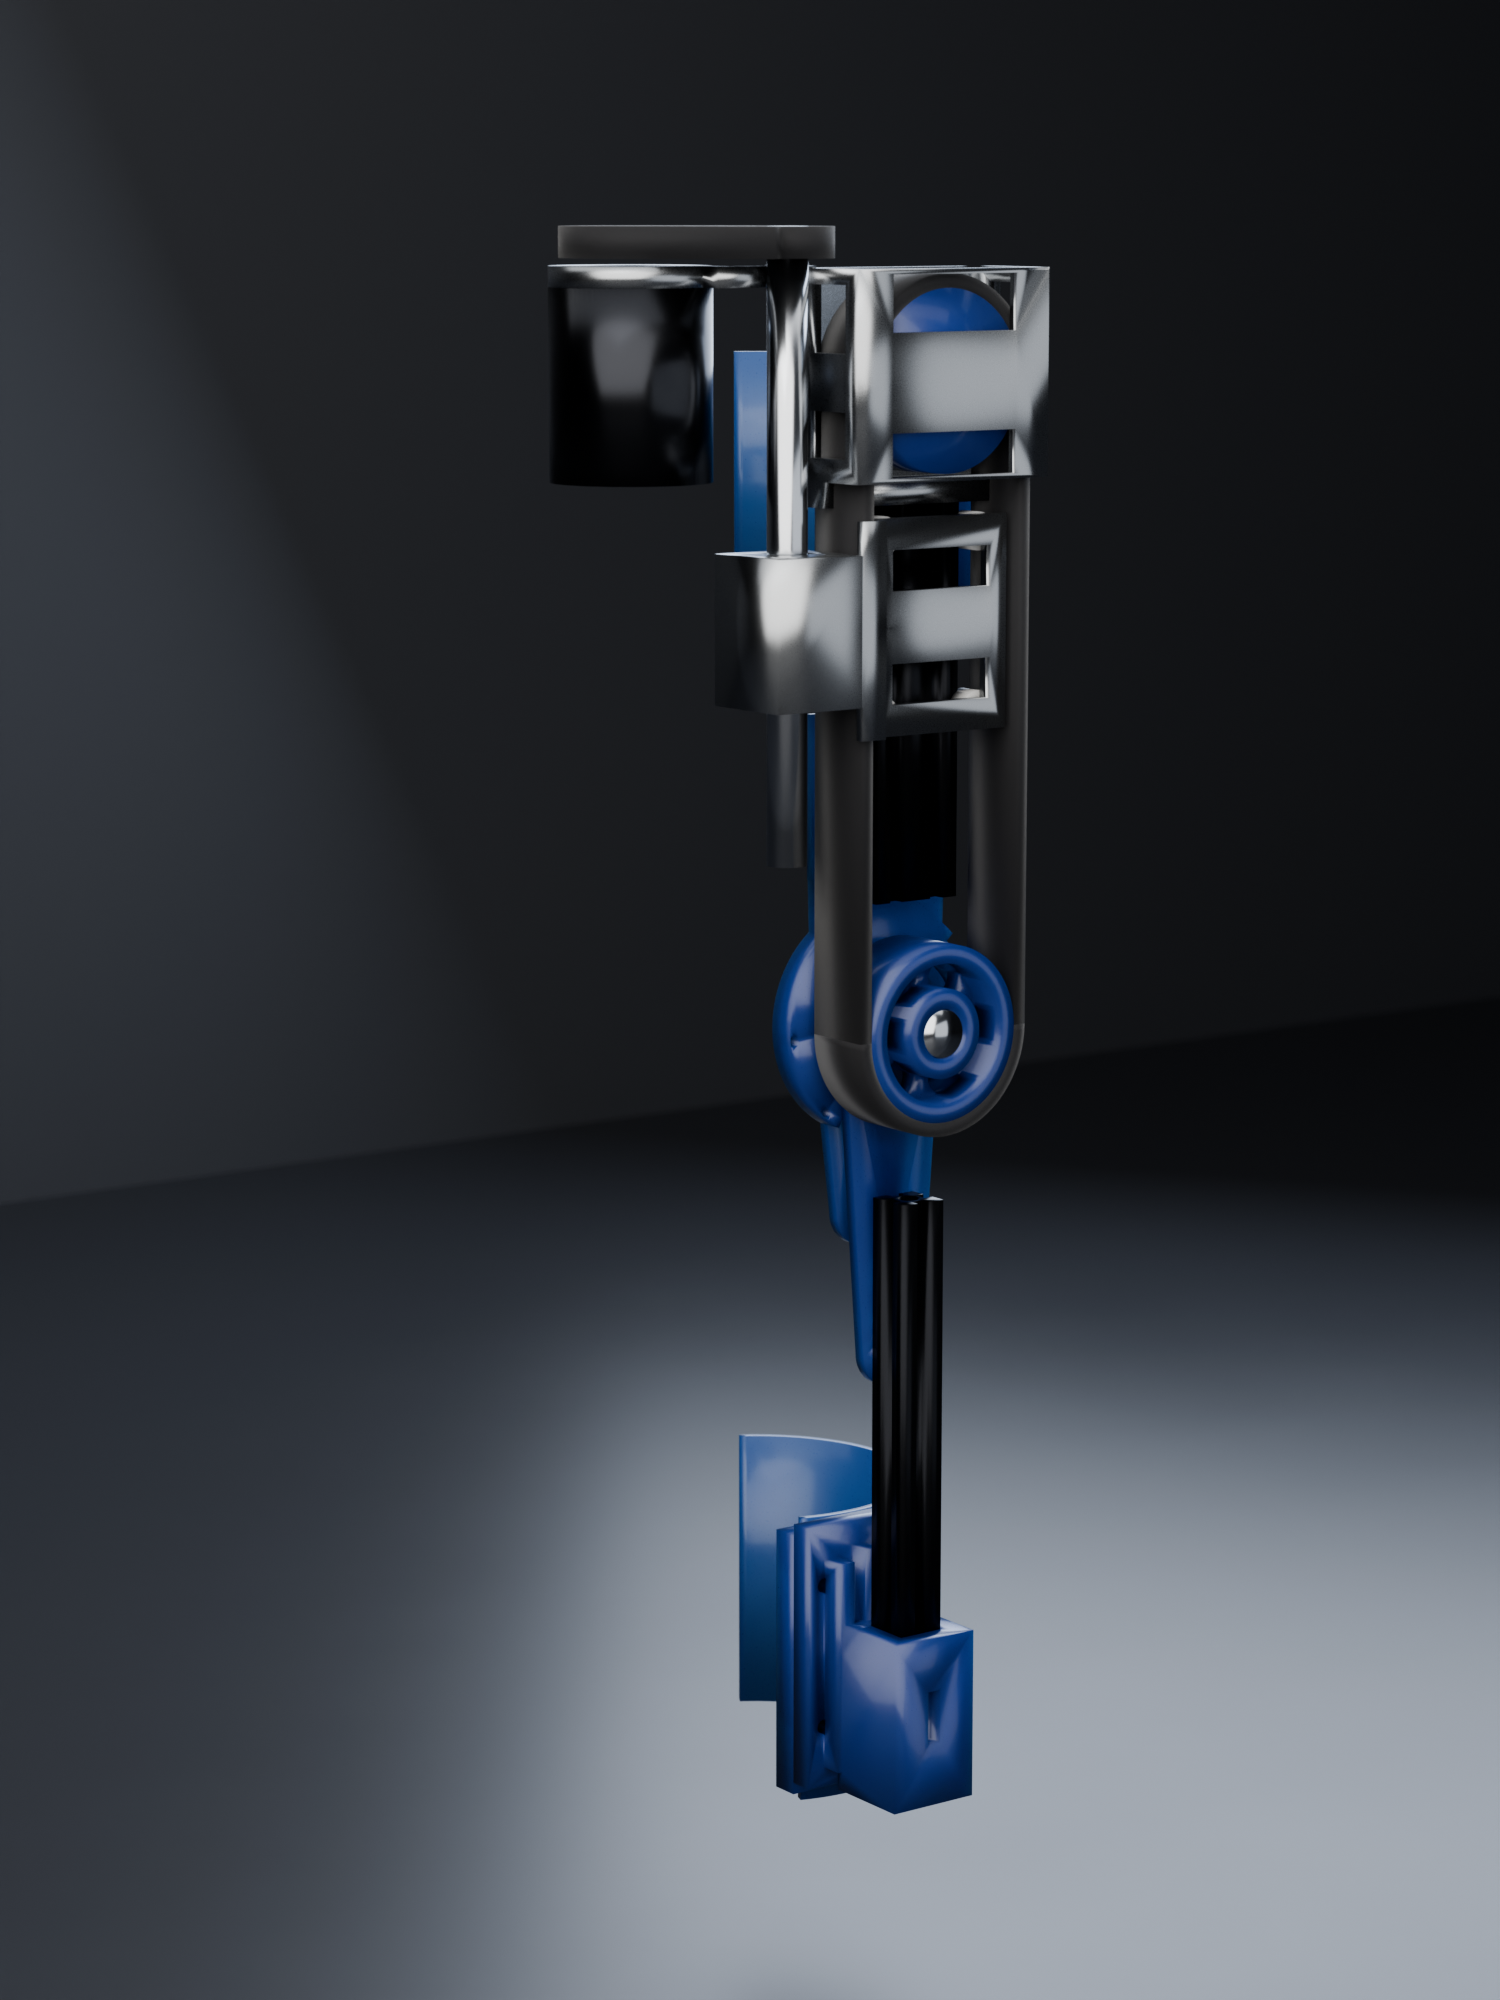
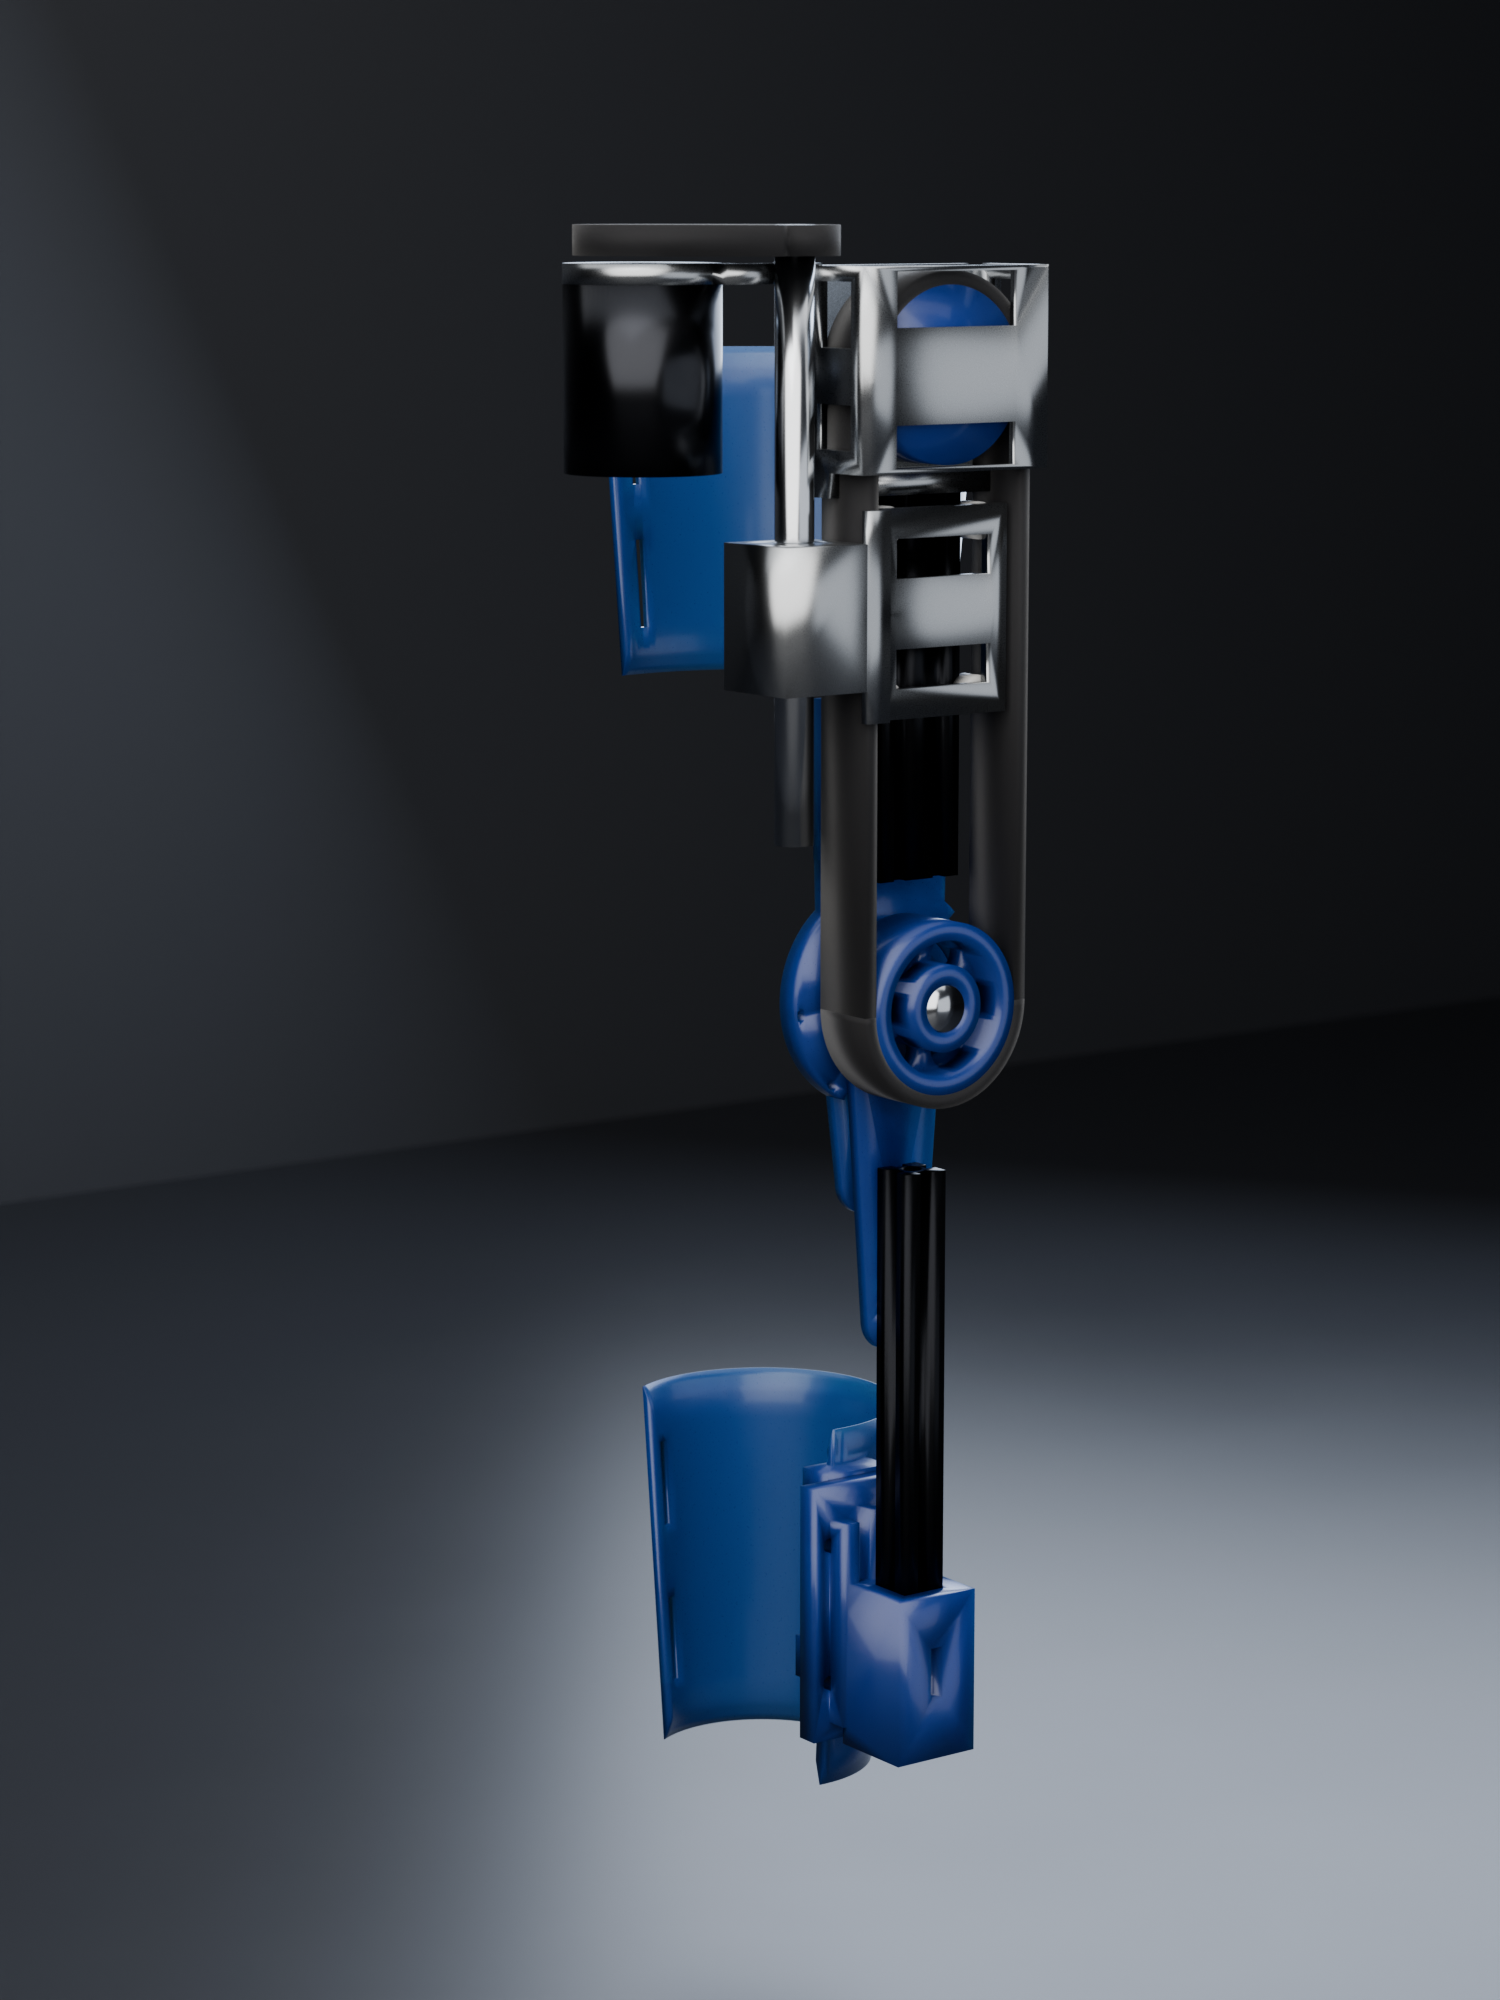
Renders for the conical cuffs, and the donning check
Cycles stills regenerated for both poses. The cuffs now read as tapered orthotic shells
rather than cylinders clamped to a cone.

408 gains a donning section, because "easy to adjust" also has to mean "possible to get on",
and 200 deg of wrap is a rigid C that has to spring over the limb:

  thigh   200 deg   limb+sleeve 158.2 mm   opening 157.8   spring 0.4 mm   582x margin
  shank   215 deg   limb+sleeve  95.4 mm   opening  92.9   spring 2.5 mm    36x margin

The wrap turns out to be free: the 4 mm standoff for the sleeve widens the opening nearly as
fast as the wrap angle closes it, so neither shell is anywhere near yielding. That matters
because the instinct with a rigid printed C is to reduce the wrap to get it on, and reducing
the wrap is exactly what put the old cuff at 40 kPa.

Two drafting errors fixed in the same file, both the same mistake -- prose written ahead of
the number it describes. The donning section first compared the opening against the BARE
limb and reported 0.0 mm of spring for both cuffs, then claimed "springs open by a few
millimetres"; the sleeve is on when you don it, and the real answers are 0.4 and 2.5. And an
earlier draft described a printed witness scale for the strap tension that was never cut --
the witness mark is a pen mark on the webbing, now said so explicitly. Documenting a feature
that does not exist is the failure mode this repo keeps catching in its own geometry; it is
no better in its prose.

Changed region(s): [[0.368, 0.093, 0.7053, 0.93]]

diff --git a/scripts/408_cuff_loads.py b/scripts/408_cuff_loads.py
@@ -468,3 +468,52 @@ print("  a sleeve goes over a CLOSED, dry incision, not a fresh one, and neopren
 print("  dermatitis from thiourea accelerators is common enough to plan for. Worth one")
 print("  question to whoever is running his rehab, and a nylon-faced or neoprene-free")
 print("  sleeve is the fallback. That is a question for them, not a thing to design around.")
+
+print()
+print("=" * 78)
+print("8.  CAN IT ACTUALLY GO ON?  --  200 deg of wrap is a C that has to spring open")
+print("=" * 78)
+print("  Wrapping past 180 deg is what makes the cuff GRIP: the shell edges are beyond the")
+print("  widest point, so pulling them together clamps rather than slides off. It is also")
+print("  what gets the pressure down. The cost is that the leg no longer drops in -- the")
+print("  shell has to spring.")
+print()
+E_PETG = 2000.0        # MPa
+EPS_Y = 0.04           # PETG yields around 4% strain
+print("  %-8s %-9s %-12s %-11s %-10s %-10s %s"
+      % ("cuff", "wrap", "limb+sleeve", "opening", "spring", "strain", "vs yield"))
+for lbl, fn, yc, wrap, wall in (("thigh", r_thigh, 190.0, 200.0, 4.0),
+                                ("shank", r_shank, -270.0, 215.0, 4.0)):
+    r_in = fn(yc) + 3.0 + 1.0           # shell inner: limb + sleeve + air
+    half_open = math.radians(360.0 - wrap) / 2.0
+    chord = 2.0 * r_in * math.sin(half_open)
+    limb_dia = 2.0 * (fn(yc) + T_SLEEVE)   # the sleeve is ON when you don it
+    spring = max(0.0, limb_dia - chord)
+    # opening a C-shell changes its curvature; outer-fibre strain = (t/2) * dk,
+    # with dk ~ kappa * (spring / chord)
+    dk = (1.0 / r_in) * (spring / chord) if chord > 0 else 0.0
+    eps = (wall / 2.0) * dk
+    print("  %-8s %4.0f deg  %8.1f mm  %7.1f mm  %6.1f mm  %8.3f%%  %s"
+          % (lbl, wrap, limb_dia, chord, spring, eps * 100.0,
+             "%.0fx margin" % (EPS_Y / eps) if eps > 0 else "drops straight on"))
+print()
+print("  0.4 mm on the thigh and 2.5 mm on the shank, at 582x and 36x margin against yield.")
+print("  The shank needs more because 215 deg of wrap on a 48 mm radius closes the opening")
+print("  much faster than the standoff opens it -- but 0.11% strain in a part that yields at")
+print("  4% is not a concern, and 2.5 mm of spring in a 93 mm C is a push, not a fight.")
+print("  Measured against the BARE limb both drop straight on; it is the sleeve that makes")
+print("  them touch anything at all.")
+print()
+print("  Worth knowing because the instinct with a rigid printed C is to reduce the wrap to")
+print("  get it on, and that is exactly the change that put the old cuff at 40 kPa. Here the")
+print("  wrap is free: it costs no donning effort and buys both the clamping action and the")
+print("  bearing area.")
+print()
+print("  Order of operations for the patient: sleeve on, cuff clicks over, webbing pulled to")
+print("  the witness mark, side-release buckles clipped. Coming off is one squeeze.")
+print()
+print("  The witness mark is a PEN MARK ON THE WEBBING, not a printed feature -- section 5")
+print("  wanted a repeatable number and a cam buckle is stepless, so the tail position at the")
+print("  slot is the indicator. Saying so explicitly because an earlier draft described a")
+print("  printed scale that was never cut, and documenting a feature that does not exist is")
+print("  the exact failure mode this repo keeps catching in its own geometry.")
